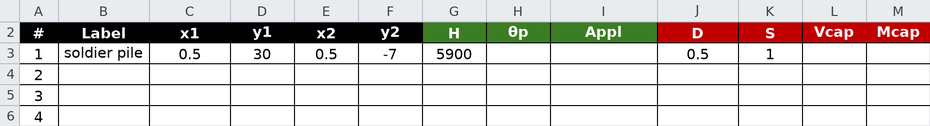
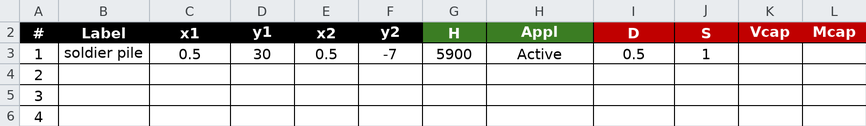
LEM-9 follow-ups: piles sheet render without θp; stale paste comments and docstrings; paste check covers LEM-12's pile table
Claude-Session: https://claude.ai/code/session_01XjjT2aBxw8gY7EFdpoUcpj

diff --git a/test/table_paste_check.py b/test/table_paste_check.py
@@ -1232,6 +1232,51 @@ def test_lem09_pile_row():
     return out
 
 
+def test_lem12_pile_rows():
+    """LEM-12's two pile rows: the full table the page reads the shipped file by,
+    pasted whole into the live piles editor at its first column.
+
+    * Its columns are the editor's own run from Label to Mcap (``_editor_run``),
+      which is every column a limit equilibrium run reads; the page names the five
+      past Mcap as the finite element ones its LEM view hides.
+    * Its cells are xslope_piles.xlsx's piles sheet, cell for cell
+      (``_sheet_cells``): a blank H where the file has a blank H (the blank is
+      what selects the Ito & Matsui force), and the file's Appl word.
+    * Every pile the block builds is the completed model's on the columns the
+      table carries, to the precision it prints them, and on the force angle the
+      editor derives from the axis. The finite element columns past Mcap are not
+      compared: the table stops at the LEM view by design, and the file's E is
+      there for Tutorial FEM-4."""
+    from studio.editors import PilesEditor
+
+    page = "lem12_piles.md"
+    model_path = os.path.join(_MODELS, "xslope_piles.xlsx")
+    head, rows, keys, col, out = _editor_run("LEM-12 piles", page, PilesEditor,
+                                             "Label", "Mcap")
+    out += _sheet_cells("LEM-12 piles", head, rows, model_path, "piles")
+    if out:
+        return out
+    model = _load(model_path)
+    editor = PilesEditor()
+    dlg = editor.build(dict(model, pile_lines=[]), None)
+    dlg.set_view_mode("table")
+    dlg._table.apply_usage_filter({"lem", "fem"})
+    _paste(dlg._table, _tsv(rows), row=0, col=col)
+    out += _fail(_summary(dlg._table) == _pasted(len(rows), len(keys)),
+                 f"LEM-12's pile rows reported {_summary(dlg._table)!r}")
+    landed = dict(model, pile_lines=[])
+    dlg.accept()
+    editor.apply(landed, dlg)
+    out += _compare("LEM-12 piles", landed["pile_lines"], rows, model["pile_lines"],
+                    keys)
+    for i, (got, want) in enumerate(zip(landed["pile_lines"], model["pile_lines"])):
+        out += _fail(_same(got.get("theta_p"), want.get("theta_p")),
+                     f"LEM-12 piles: row {i + 1} theta_p came back "
+                     f"{got.get('theta_p')!r} from the page's row; the completed "
+                     f"model has {want.get('theta_p')!r}")
+    return out
+
+
 def test_lem12_stated_pile_force():
     """LEM-12's edit: the pile force stated instead of computed, pasted into the
     piles editor's H column.
@@ -1426,6 +1471,7 @@ CHECKS = [
     ("LEM-7 c/p -> constant", test_lem07_profile_to_constant),
     ("LEM-10 seed circle", test_lem10_seed_circle),
     ("LEM-11 σ block", test_lem11_sigma_block),
+    ("LEM-12 pile rows", test_lem12_pile_rows),
     ("LEM-12 stated pile force", test_lem12_stated_pile_force),
     ("LEM-8 materials", test_lem08_materials),
     ("LEM-9 materials", test_lem09_materials),

diff --git a/tools/make_tutorial_figures.py b/tools/make_tutorial_figures.py
@@ -1118,17 +1118,21 @@ def lem09_sheets():
     """The five worksheets LEM-9's Excel path fills.
 
     ``reinforce`` and ``piles`` are the two this page is about, and both windows
-    run to the last input column so the reader sees the columns they are told to
-    leave alone as well as the ones they fill. ``non-circ`` runs to F for the
-    sheet's own Movement legend, as LEM-5's does. ``mat`` and ``profile`` take
-    the two-material frames LEM-3 and LEM-8 use.
+    run to the last column a limit equilibrium analysis reads, so the reader sees
+    the columns they are told to leave alone or blank as well as the ones they
+    fill. ``non-circ`` runs to F for the sheet's own Movement legend, as LEM-5's
+    does. ``mat`` and ``profile`` take the two-material frames LEM-3 and LEM-8
+    use.
     """
     render("lem09_sheet_mat.png", LEM09, "mat", rows=(10, 13), cols="A:O")
     render("lem09_sheet_profile.png", LEM09, "profile", rows=(1, 14), cols="A:H")
     render("lem09_sheet_noncirc.png", LEM09, "non-circ", rows=(1, 6), cols="A:F")
-    render("lem09_sheet_reinforce.png", LEM09, "reinforce", rows=(2, 6), cols="A:O")
-    # LEM problem: stop before the FEM-only pile columns (E, I, Area, Head, Tip).
-    render("lem09_sheet_piles.png", LEM09, "piles", rows=(2, 6), cols="A:M")
+    # LEM problem: run to Spacing (Q), stopping before the FEM-only reinforce
+    # columns (Tres, E, Area).
+    render("lem09_sheet_reinforce.png", LEM09, "reinforce", rows=(2, 6), cols="A:Q")
+    # LEM problem: run to Mcap (L), stopping before the FEM-only pile columns
+    # (E, I, Area, Head, Tip).
+    render("lem09_sheet_piles.png", LEM09, "piles", rows=(2, 6), cols="A:L")
 
 
 def lem09_plots():

diff --git a/tools/capture_tutorial_screenshots.py b/tools/capture_tutorial_screenshots.py
@@ -846,9 +846,9 @@ def lem09_reinforcement():
     The same editor LEM-8 photographs, on a row whose Type is ``anchor`` rather
     than blank: the shot's subject is the Type group at the bottom of the form,
     where the preset has filled Dir with ``axial`` and Appl with ``active``, and
-    the Anchorage group above it, where the two pullout lengths are 0 at the wall
-    and the bond length at the far end. The first line is selected because it is
-    the one the page reads its capacity off.
+    the Anchorage group above it, where Lp1 is 0 at the wall, Lp2 is the
+    development length at the far end, and Adhesion and Delta are blank. The
+    first line is selected because it is the one the page reads its capacity off.
     """
     from studio.editors import ReinforcementEditor
 
@@ -858,9 +858,9 @@ def lem09_reinforcement():
 
 def lem09_piles_table():
     """The piles editor's table view on the soldier pile — the view the page
-    teaches first: the worksheet's columns minus the derived θp, taking the
-    Problem-section row as two pieces. LEM columns only, per the page's
-    toggles."""
+    teaches first: the worksheet's LEM columns, Label through Mcap, in the
+    sheet's order, so the Problem-section row pastes in as one block. LEM
+    columns only, per the page's toggles."""
     from studio.editors import PilesEditor
 
     dlg = PilesEditor().build(_load(LEM09), None)

diff --git a/studio/editors.py b/studio/editors.py
@@ -6511,10 +6511,9 @@ class PilesEditor(CategoryEditor):
     # label/edit hover; the same dict feeds the context-sensitive help strip.
     # Field order mirrors the piles sheet's columns (Label, the endpoints, H, Appl,
     # D, S, Vcap, Mcap, then the FEM tail E, I, Area, Head, Tip) so a block copied from
-    # the sheet or the docs' tables pastes straight in. The sheet's qp (θ) sits
-    # between H and Appl and has no column here: θ is derived from the pile axis on
-    # save, so a block spanning it goes in as two — the endpoints through H, then D
-    # onward, which is how the tutorials print it.
+    # the sheet or the docs' tables pastes straight in as one piece. Neither the
+    # sheet nor this editor has a force-angle column: apply() derives θ from the
+    # pile axis on save, as the loader does.
     LF = {"lem", "fem"}
     FIELDS = [
         Field("label", "Label", "str", tooltip=PILES_HELP["label"]),
